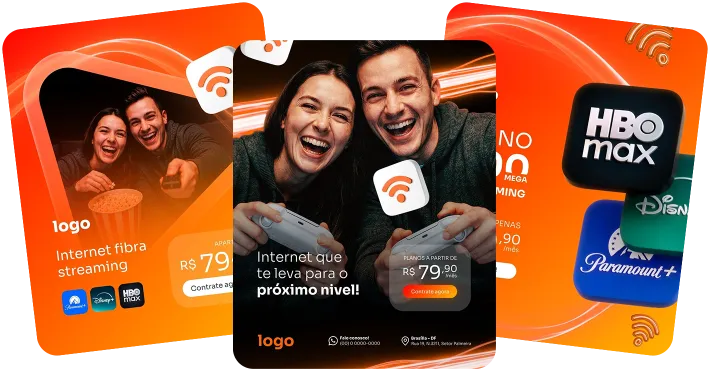
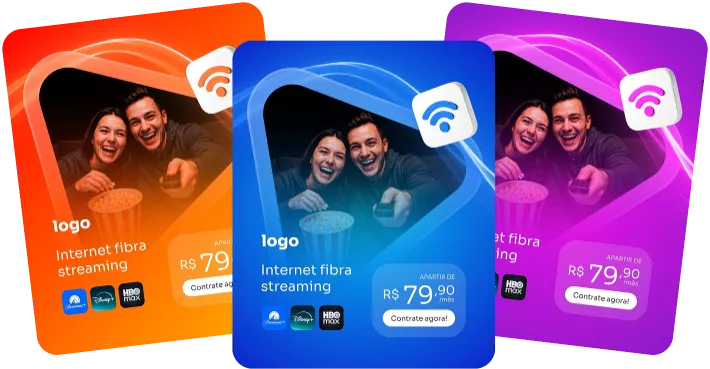
corrigindo

diff --git a/src/app/[lang]/packs/components/SectionRecebeMais.tsx b/src/app/[lang]/packs/components/SectionRecebeMais.tsx
@@ -45,7 +45,7 @@ export function SectionRecebeMais() {
           fill="rgba(255, 255, 255, 0.5)" fontFamily='"Inter", sans-serif' fontSize="74" fontWeight="400"
           textAnchor="middle" dominantBaseline="middle"
         >
-          O QUE VC RECEBE
+          O QUE VOCÊ RECEBE
         </text>
 
         {/* TÍTULO PRINCIPAL PADRONIZADO (Tamanho 158) */}
